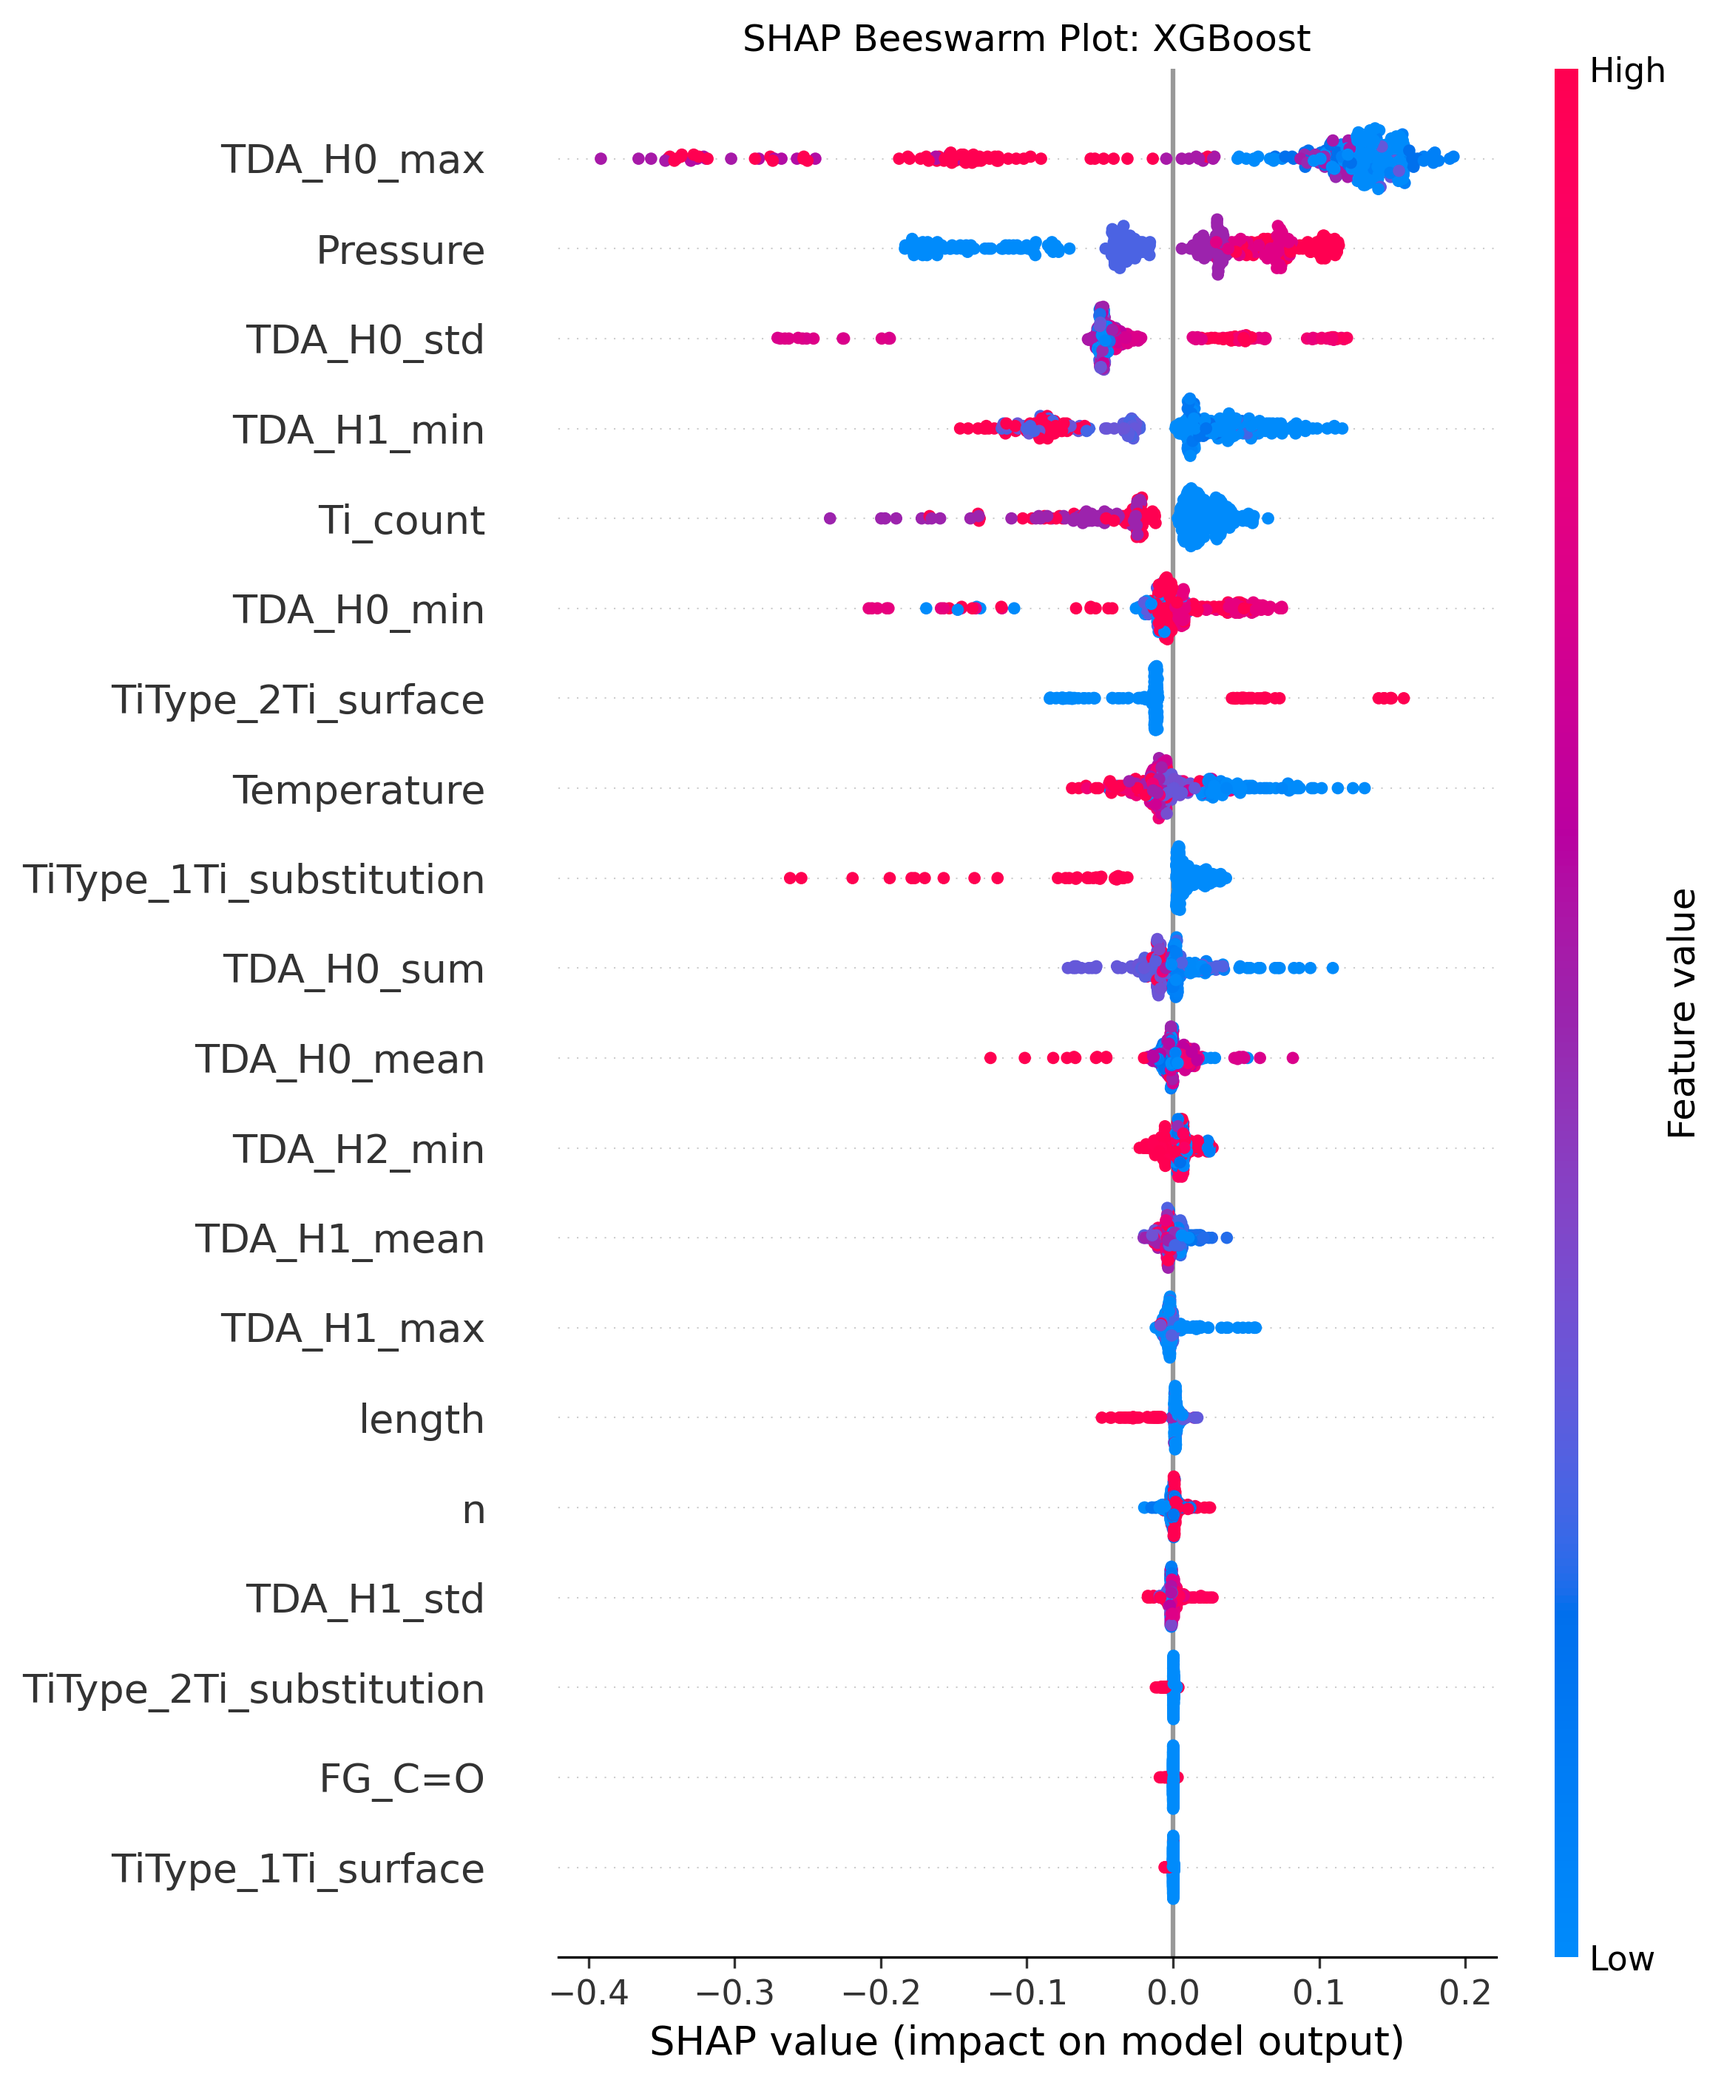
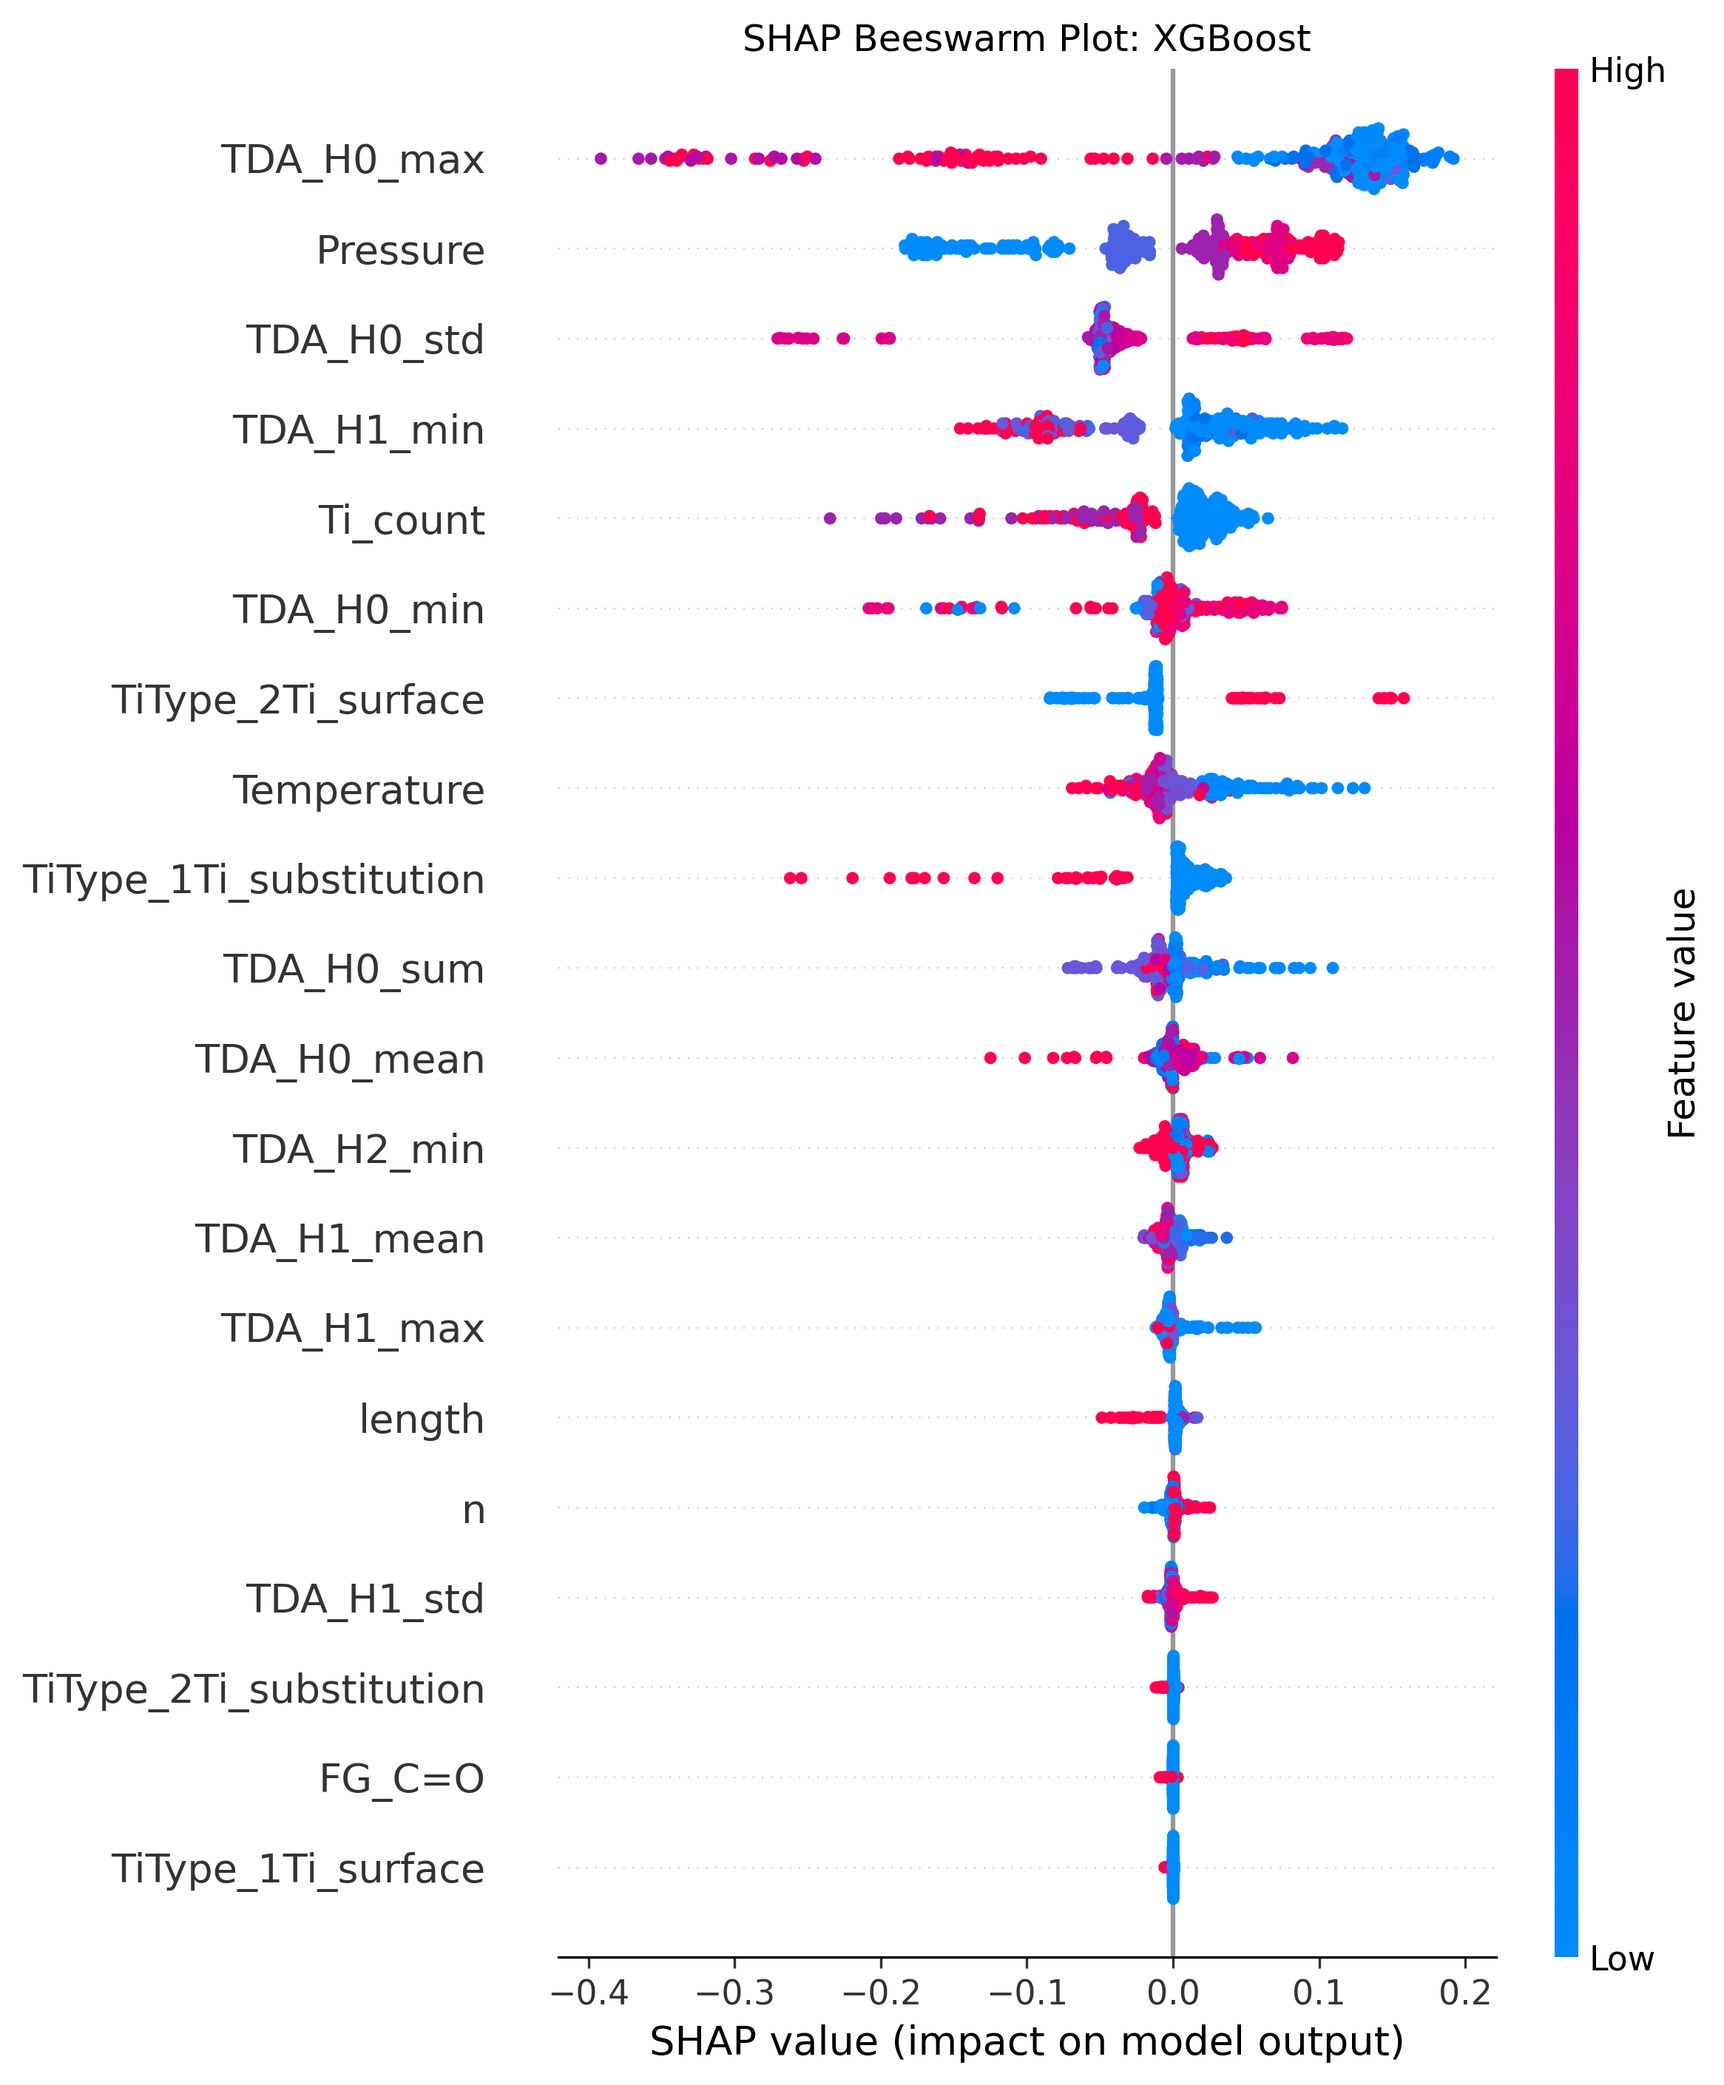
0319 update

diff --git a/MLs.py b/MLs.py
@@ -11,7 +11,41 @@ from sklearn.preprocessing import StandardScaler
 import matplotlib.pyplot as plt
 import seaborn as sns
 from sklearn.model_selection import GroupShuffleSplit, GroupKFold
+from sklearn.utils import resample
 
+def analyze_model_uncertainty(model, X_train, y_train, X_test, n_iterations=20, model_name="Model"):
+    print(f"Performing Bootstrap Uncertainty Analysis for {model_name}...")
+    boot_preds = []
+    
+    for i in range(n_iterations):
+        # Resample data
+        X_resample, y_resample = resample(X_train, y_train, random_state=i)
+        
+        # Create a new instance of the model with same parameters
+        from sklearn.base import clone
+        model_copy = clone(model)
+        model_copy.fit(X_resample, y_resample)
+        
+        # Predict on test set
+        boot_preds.append(model_copy.predict(X_test))
+        
+    boot_preds = np.array(boot_preds)
+    std_dev = np.std(boot_preds, axis=0)
+    mean_pred = np.mean(boot_preds, axis=0)
+    
+    # Visualization
+    plt.figure(figsize=(5, 5), dpi=300)
+    sc = plt.scatter(y_test, mean_pred, c=std_dev, cmap='viridis', alpha=0.7, edgecolors='k')
+    plt.colorbar(sc, label='Prediction Uncertainty (Std Dev)')
+    plt.plot([y_test.min(), y_test.max()], [y_test.min(), y_test.max()], 'r--', lw=2)
+    
+    plt.title(f'Uncertainty Analysis: {model_name}')
+    plt.xlabel('Measured Theta')
+    plt.ylabel('Mean Predicted Theta')
+    plt.tight_layout()
+    plt.savefig(f'{model_name}_uncertainty_analysis.png')
+    
+    return std_dev
 
 
 # shap with visualization
@@ -53,7 +87,7 @@ def plot_correlation_matrix(df, model_name="Dataset"):
         cmap='coolwarm', 
         fmt=".2f", 
         linewidths=0.2,
-        annot_kws={"size": 4}, 
+        annot_kws={"size": 8}, 
         cbar_kws={'shrink': .4}
     )
     plt.title(f"Pearson Correlation Matrix: {model_name}")
@@ -76,19 +110,9 @@ csv_dir = r"D:\UCL Courses\NSCI0016 Literature Report\dataset and models\deepche
 colnames = ['FileID', 'Temperature', 'E', 'G', 'Pressure' , 'length', 'n', 'm', 'diameter', 'Ti_count', 'FG_C=O', 'FG_NH2', 'FG_SO3H', 'FG_none', 'TiType_1Ti_substitution', 'TiType_1Ti_surface', 'TiType_2Ti_substitution', 'TiType_2Ti_surface', 'TiType_none', 'TDA_H0_max', 'TDA_H0_min', 'TDA_H0_mean', 'TDA_H0_std', 'TDA_H0_sum', 'TDA_H1_max', 'TDA_H1_min', 'TDA_H1_mean', 'TDA_H1_std', 'TDA_H1_sum', 'TDA_H2_max', 'TDA_H2_min', 'TDA_H2_mean', 'TDA_H2_std', 'TDA_H2_sum', 'theta']
 df = pd.read_csv(csv_dir)
 df.columns = df.columns.str.strip()
-# transfer to numeric variables
-# df = pd.get_dummies(df)
-# # transfer to numeric for File ID split
-# df = pd.get_dummies(df.drop(columns=['FileID']))
-# groups = df['FileID'].copy()
-# y = df['theta'].copy()
-# cols_to_drop = ['G', 'E', 'theta', 'FileID']
-# X_raw = df.drop(columns=cols_to_drop)
-# X = pd.get_dummies(X_raw)
 
 # data splitting (change for "with G" and "without G")
-X = df.drop(['G','E', 'theta','FileID', 'TDA_H0_max', 'TDA_H0_min', 'TDA_H0_mean', 'TDA_H0_std', 'TDA_H0_sum', 'TDA_H1_max', 'TDA_H1_min', 'TDA_H1_mean', 'TDA_H1_std', 'TDA_H1_sum', 'TDA_H2_max', 'TDA_H2_min', 'TDA_H2_mean', 'TDA_H2_std', 'TDA_H2_sum'], axis=1)
-# X = df.drop(['E', 'theta','FileID'], axis=1)
+X = df.drop(['G','E', 'theta','FileID'], axis=1)
 y = df['theta']
 
 # Pearson analysis
@@ -102,13 +126,6 @@ feature_names = X.columns.tolist()
 # divide the label into bins
 y_bins = pd.cut(y, bins=5, labels=False)
 X_train, X_test, y_train, y_test = train_test_split(X, y, test_size=0.2, random_state=42, stratify=y_bins, shuffle=True)
-
-# # File ID split method
-# groups = df['FileID']
-# gss = GroupShuffleSplit(n_splits=1, test_size=0.2, random_state=42)
-# train_idx, test_idx = next(gss.split(X, y, groups=groups))
-# X_train, X_test = X.iloc[train_idx], X.iloc[test_idx]
-# y_train, y_test = y.iloc[train_idx], y.iloc[test_idx]
 
 scaler_X = StandardScaler()
 X_train_scaled = scaler_X.fit_transform(X_train)
@@ -140,16 +157,6 @@ grid_svr.fit(X_train_scaled, y_train)
 grid_xgb = GridSearchCV(xgb, xgb_param_grid, cv=5)
 grid_xgb.fit(X_train_scaled, y_train)
 lr.fit(X_train_scaled, y_train) 
-
-# # File ID cross validation
-# group_kfold = GroupKFold(n_splits=5)
-# grid_rf = GridSearchCV(rf, rf_param_grid, cv=group_kfold)
-# grid_rf.fit(X_train_scaled, y_train, groups=groups.iloc[train_idx])
-# grid_svr = GridSearchCV(svr, svr_param_grid, cv=group_kfold)
-# grid_svr.fit(X_train_scaled, y_train, groups=groups.iloc[train_idx])
-# grid_xgb = GridSearchCV(xgb, xgb_param_grid, cv=group_kfold)
-# grid_xgb.fit(X_train_scaled, y_train, groups=groups.iloc[train_idx])
-# lr.fit(X_train_scaled, y_train) 
 
 # make predictions on the test set
 best_rf = grid_rf.best_estimator_
@@ -211,6 +218,28 @@ plt.ylabel('Predicted Theta')
 plt.tight_layout()
 plt.savefig('model_comparison.png')
 
+# --- Add this after your performance metrics and before SHAP ---
+
+# List of models and their names for iteration
+models_to_analyze = [
+    (best_rf, "Random_Forest"),
+    (best_svr, "SVR"),
+    (lr, "Linear_Regression"),
+    (best_xgb, "XGBoost")
+]
+
+uncertainty_results = {}
+
+for model_obj, name in models_to_analyze:
+    std_uncertainty = analyze_model_uncertainty(
+        model=model_obj, 
+        X_train=X_train_scaled, 
+        y_train=y_train, 
+        X_test=X_test_scaled, 
+        n_iterations=15, # You can increase this for better precision
+        model_name=name
+    )
+    uncertainty_results[name] = std_uncertainty
 
 # shap
 shap_values_rf = run_shap_analysis(best_rf, X_test_scaled, X.columns, model_name="Random_Forest")

diff --git a/project_summary.md b/project_summary.md
@@ -290,6 +290,7 @@ The $\theta$ means the coverage ratio of adsorption, and there are 5 selected pr
 $$K = \exp\left( -\frac{\Delta G^\circ}{RT} \right)$$
 
 $$\theta = \frac{K \cdot (P/P^\circ)}{1 + K \cdot (P/P^\circ)}$$
+
 Hence, all the data has been obtained.
 ## Dataset construction
 | File ID | Temperature (K) | G | Pressure (bar) | theta |
@@ -301,7 +302,11 @@ Hence, all the data has been obtained.
 
 ## Machine learning models comparison
 ### Model selection
+```
+Linear Regression (benchmark), Random Forest, Support Vector Regression, XGBoost
+```
 ### Framework
+
 ### Feature engineering
 ### Metrics comparison
 ### Uncertainty and applicability
